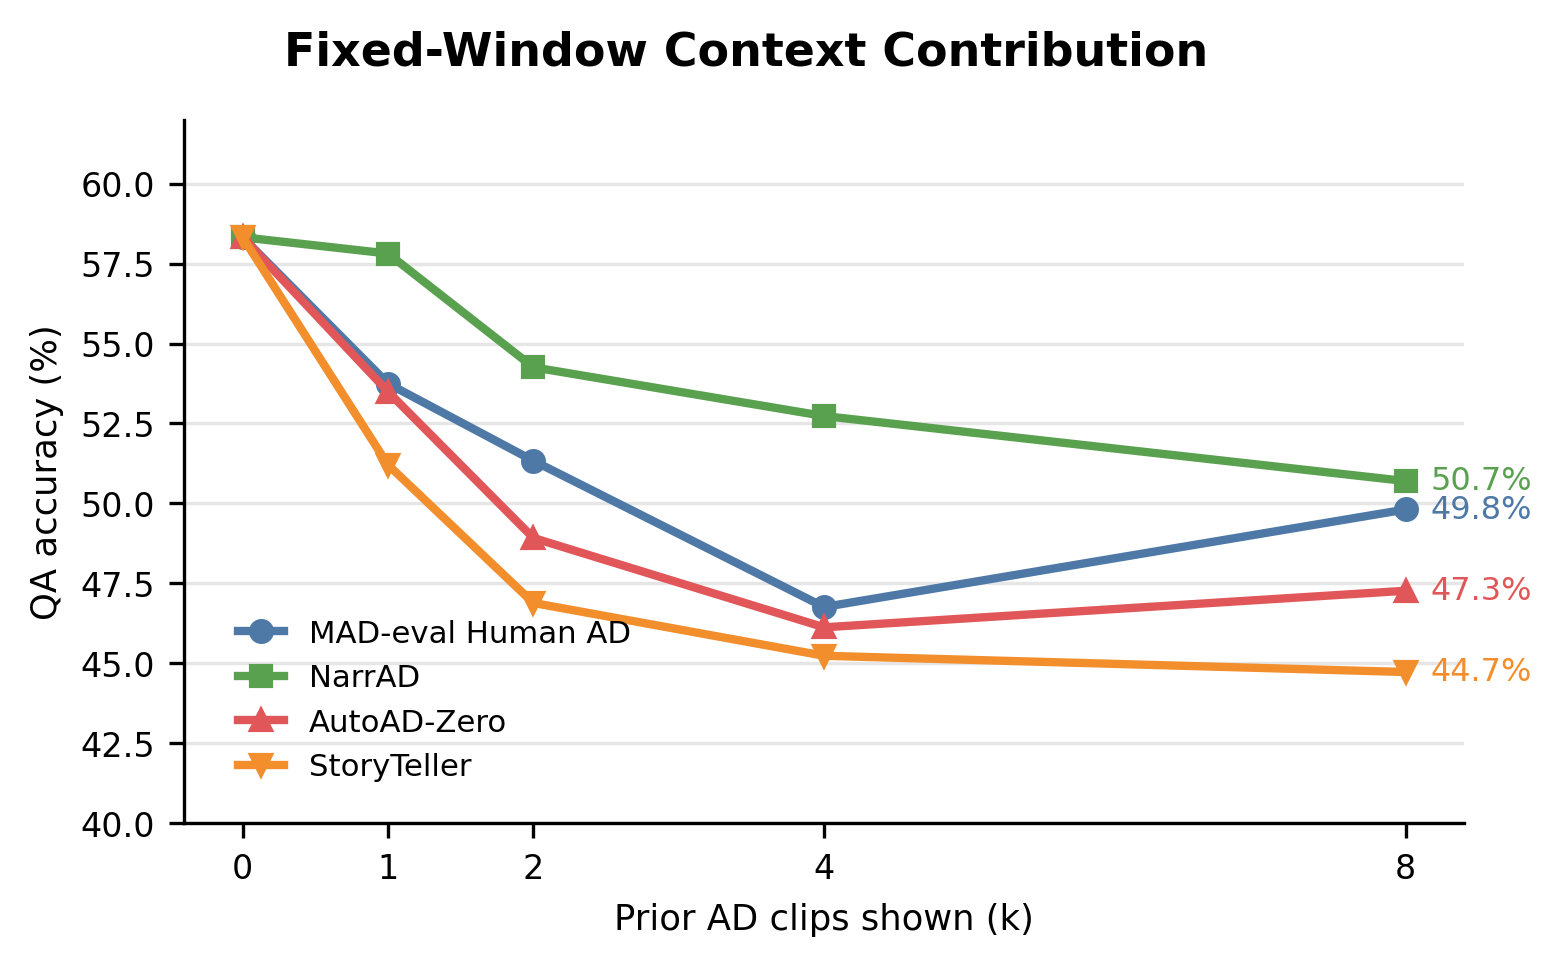
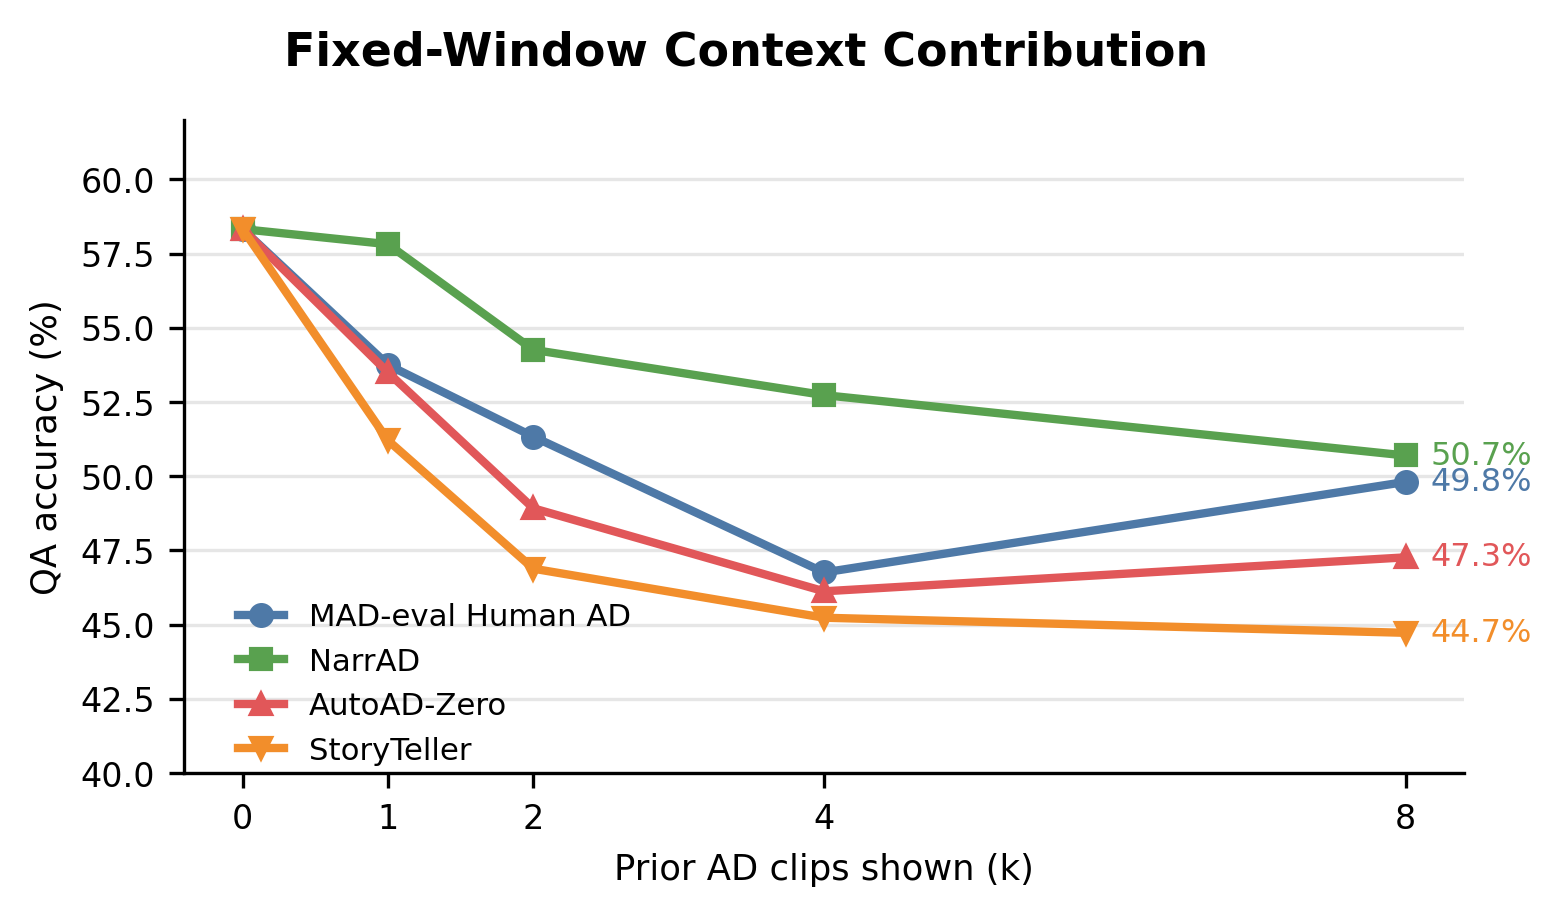
Lower context scaling legend

diff --git a/scripts/figures/make_context_scaling.py b/scripts/figures/make_context_scaling.py
@@ -144,7 +144,7 @@ def plot(rows: list[dict[str, object]], pdf_path: Path, png_path: Path) -> None:
 
     fig, ax_acc = plt.subplots(figsize=(5.2, 3.35))
 
-    fig.subplots_adjust(left=0.14, right=0.96, bottom=0.18, top=0.88)
+    fig.subplots_adjust(left=0.14, right=0.96, bottom=0.23, top=0.88)
 
     fig.suptitle(
         "Fixed-Window Context Contribution",
@@ -194,7 +194,7 @@ def plot(rows: list[dict[str, object]], pdf_path: Path, png_path: Path) -> None:
     ax_acc.legend(
         frameon=False,
         loc="lower left",
-        bbox_to_anchor=(0.02, 0.02),
+        bbox_to_anchor=(0.02, -0.03),
         handlelength=1.5,
     )
 